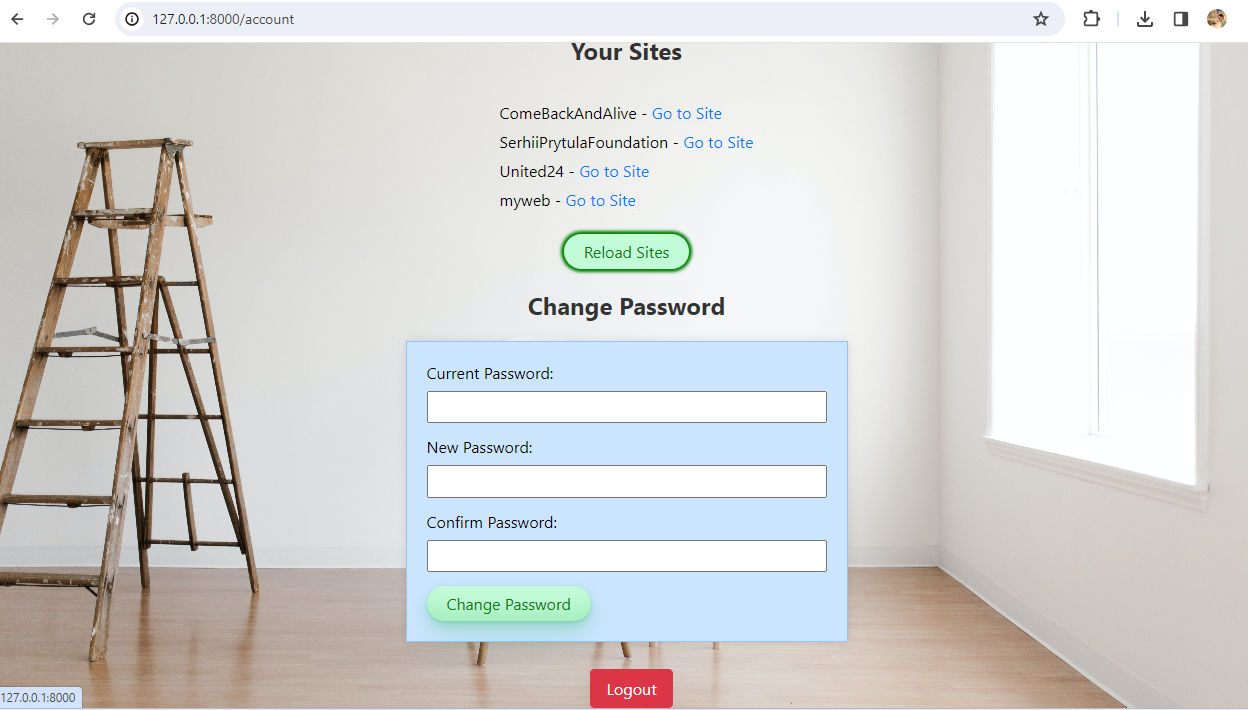
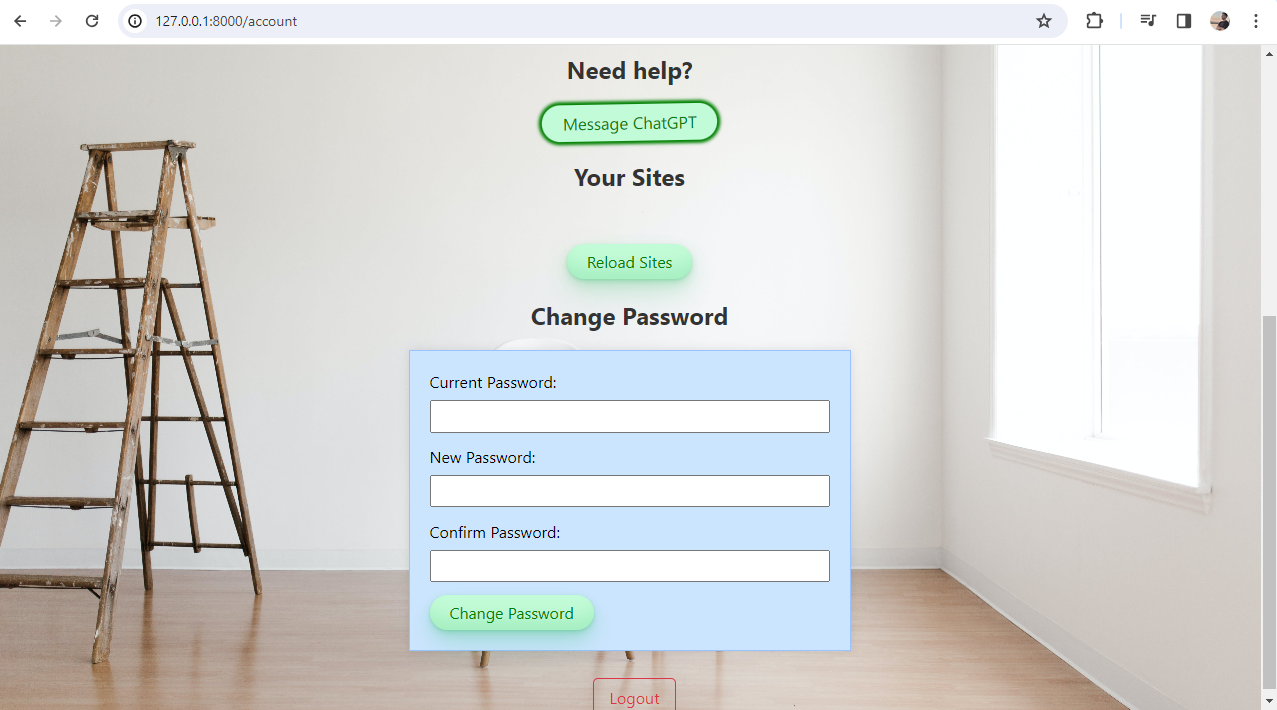
integrated ChatGPT chat, gpt.html

diff --git a/templates/gpt.html b/templates/gpt.html
@@ -1,0 +1,62 @@
+<!DOCTYPE html>
+<html lang="en">
+
+<head>
+  <meta charset="UTF-8">
+  <meta http-equiv="X-UA-Compatible" content="IE=edge">
+  <meta name="viewport" content="width=device-width, initial-scale=1.0">
+  <title>Message ChatGPT</title>
+  <link rel="stylesheet" href="{{ url_for('static', path='css/styles.css') }}">
+</head>
+
+<body class="centered">
+   <h1>Message ChatGPT</h1>
+   
+   <div id="chat-container">
+       <div id="chat-messages"></div>
+       <form id="chat-form">
+           <label for="user-message">Type a message:</label>
+           <input type="text" id="user-message" name="user-message" required>
+           <button type="button" onclick="sendMessage()">Send</button>
+       </form>
+   </div>
+   
+   <a href="{{ url_for('account_page') }}">Return to my account</a>
+
+   <script>
+       async function sendMessage() {
+           var userMessage = document.getElementById('user-message').value;
+           var chatMessages = document.getElementById('chat-messages');
+           try {
+               chatMessages.innerHTML += `<div class="user-message">${userMessage}</div>`;
+               const response = await fetch('/chatgpt', {
+                  method: 'POST',
+                  headers: {
+                      'Content-Type': 'application/x-www-form-urlencoded',
+                  },
+                  body: new URLSearchParams({
+                      'message': userMessage,
+                  }),
+               });
+               const responseData = await response.json();
+               console.log(responseData);
+               const generatedMessage = responseData.generated_message;
+   
+               chatMessages.innerHTML += `<div class="gpt-message">${generatedMessage}</div>`;
+
+               document.getElementById('user-message').value = '';
+           } catch (error) {
+               console.error('Error sending message:', error);
+           }
+       }
+       var input = document.getElementById("user-message");
+       input.addEventListener("keypress", function(event) {
+          if (event.key === "Enter") {
+              event.preventDefault();
+              sendMessage();   // Enter функціонуватиме як "Send"
+          }
+       });
+   </script>
+</body>
+
+</html>

diff --git a/templates/account.html b/templates/account.html
@@ -26,6 +26,9 @@
           <br>
           <button type="submit">Create Site</button>
        </form>
+   
+   <h2>Need help?</h2>  
+   <button id="go-to-chatgpt">Message ChatGPT</button>
 
    <h2>Your Sites</h2>
    <ul id="sites-list">
@@ -85,6 +88,9 @@
                });
            });
    });
+   document.getElementById('go-to-chatgpt').addEventListener('click', function() {
+        window.location.href = '/chatgpt';
+    });
    </script>
 </body>
 

diff --git a/static/css/styles.css b/static/css/styles.css
@@ -258,3 +258,21 @@ position: relative;
     text-align: center;
     margin-top: 20px;
 }
+  
+/* .user-message {
+    background-color: #f0f0f0; 
+    color: #333; 
+    float: right; 
+    padding: 10px;
+    margin-bottom: 10px; 
+    border-radius: 5px; 
+}
+ 
+.gpt-message {
+    background-color: #333; 
+    color: #f0f0f0; 
+    float: left; 
+    padding: 10px; 
+    margin-bottom: 10px; 
+    border-radius: 5px; 
+} */

diff --git a/main.py b/main.py
@@ -1,11 +1,13 @@
 import uvicorn
-from fastapi import FastAPI, Request, Form, HTTPException
+from fastapi import FastAPI, Request, Form, HTTPException, Depends
 from fastapi.staticfiles import StaticFiles
-from fastapi.responses import HTMLResponse, RedirectResponse 
+from fastapi.responses import HTMLResponse, RedirectResponse, JSONResponse
 from fastapi.templating import Jinja2Templates 
 from fastapi_sqlalchemy import DBSessionMiddleware, db
 from dotenv import load_dotenv
 from starlette.middleware.sessions import SessionMiddleware
+import openai
+from openai import OpenAI
 import os
 
 from models import Users
@@ -16,11 +18,13 @@ from models import Site as ModelSite
 
 from schema import Users as SchemaUsers
 from schema import Statistics as SchemaStatistics
- 
+
 load_dotenv(".env")
 
 app = FastAPI()
 templates = Jinja2Templates(directory="templates")
+
+client = OpenAI()
 
 app.mount("/static", StaticFiles(directory="static"), name="static")
 app.add_middleware(DBSessionMiddleware, db_url=os.environ["DATABASE_URL"])
@@ -30,10 +34,11 @@ app.add_middleware(SessionMiddleware, secret_key="bananabomb")
 async def home(request: Request):     # I can use only def in these snippets
     return templates.TemplateResponse("home.html", {"request": request})
 
+
 @app.get('/register', response_class=HTMLResponse)
 async def registr_page(request: Request):
     return templates.TemplateResponse("register.html", {"request": request})
-                                      
+                                     
 @app.post("/register", response_class=HTMLResponse)
 async def register(request: Request, 
                    username: str = Form(...), 
@@ -48,12 +53,13 @@ async def register(request: Request,
     print("Registration successful. Redirecting to login.")
     return RedirectResponse(url="/login", status_code=303)
 
+
 @app.get('/login', response_class=HTMLResponse)
 async def login_page(request: Request):
     return templates.TemplateResponse("login.html", {"request": request})
 
 @app.post("/login", response_class=HTMLResponse)
-async def login(request: Request, 
+async def login(request: Request,   
               username: str = Form(...), 
               password: str = Form(...)):
   existing_user = db.session.query(Users).filter(Users.username == username, Users.password == password).first()
@@ -64,6 +70,7 @@ async def login(request: Request,
   else: 
       return templates.TemplateResponse("login.html", {"request": request, "error": "Invalid username or password"})
    
+
 @app.get('/account', response_class=HTMLResponse)
 async def account_page(request: Request):
   user = request.session.get("user")
@@ -71,7 +78,7 @@ async def account_page(request: Request):
       return templates.TemplateResponse("account.html", {"request": request, "user": user, "error": None})
   else:
       return templates.TemplateResponse("account.html", {"request": request, "user": None, "error": "You are not logged in"})
-  
+
 @app.post('/account', response_class=HTMLResponse)
 async def change_pass(request: Request, 
         current_password: str = Form(...), 
@@ -90,6 +97,69 @@ async def change_pass(request: Request,
     db.session.commit() 
     request.session["error"] = "Password changed successfully"
     return templates.TemplateResponse("account.html", {"request": request, "user": user, "error": request.session.get('error')})
+
+
+def get_openai_api_key():
+    return os.environ.get("OPENAI_API_KEY", "not-set-api-key")
+
+class OpenAIDependency:
+   def __init__(self, api_key: str = Depends(get_openai_api_key)):
+      self.client = openai.OpenAI(api_key=api_key)
+
+@app.get('/chatgpt', response_class=HTMLResponse)
+async def gpt_page(request: Request):
+   return templates.TemplateResponse("gpt.html", {"request": request})
+
+@app.post('/chatgpt', response_class=JSONResponse)
+async def chat_with_gpt(
+    request: Request,
+    message: str = Form(...),
+    openai_dependency: OpenAIDependency = Depends()
+):
+    print(f"Received message: {message}")
+    if not message:
+        raise HTTPException(status_code=400, detail="Message cannot be empty")
+    try:
+        stream = openai_dependency.client.chat.completions.create(
+            model="gpt-3.5-turbo",
+            messages=[{"role": "user", "content": message}],
+            stream=True,
+            max_tokens=10  # Ліміт
+        )
+        generated_message = ""
+        async for chunk in stream:
+           if chunk.choices[0].delta.content is not None:
+              generated_message += chunk.choices[0].delta.content
+        print(f"Generated message: {generated_message}")
+    except Exception as e:
+        print(f"Error generating response: {str(e)}")
+        raise HTTPException(status_code=500, detail=f"Error generating response: {str(e)}")
+    return {"generated_message": generated_message}
+
+''' Previous snippet yields a response in parallel to ChatGPT`s generation 
+    Below snippet yields a response only when it is fully generated by it '''
+# @app.post('/chatgpt', response_class=JSONResponse)
+# async def chat_with_gpt(
+#     request: Request,
+#     message: str = Form(...),
+#     openai_dependency: OpenAIDependency = Depends()
+# ):
+#     print(f"Received message: {message}")
+#     if not message:
+#         raise HTTPException(status_code=400, detail="Message cannot be empty")
+#     try:
+#         chat_completion = openai_dependency.client.chat.completions.create(
+#             model="gpt-3.5-turbo",
+#             messages=[{"role": "user", "content": message}],
+#             max_tokens=10 # Ліміт
+#         )
+#         generated_message = chat_completion.choices[0].message['content']
+#         print(f"Generated message: {generated_message}")
+#     except Exception as e:
+#         print(f"Error generating response: {str(e)}")
+#         raise HTTPException(status_code=500, detail=f"Error generating response: {str(e)}")
+#     return {"generated_message": generated_message}
+
 
 @app.post("/create_site")
 async def create_site(request: Request, site_name: str = Form(...), site_url: str = Form(...)):
@@ -122,10 +192,10 @@ async def go_to_site(request: Request, site_id: int):
    else:
        return RedirectResponse("/account")
 
-''' Below snippet yields => http://127.0.0.1:8000/ComeBackAndAlive/, but when 
-I move in the external site - e.g clicking a Materials department of a w/s 
-(http://127.0.0.1:8000/ComeBackAndAlive/materials), it returns URL 
- http://127.0.0.1:8000/materials/ instead, with {"error":"Site not found"} '''
+''' Above snippet redirects to external original site that you had created.
+    Below one yields a proxy http://127.0.0.1:8000/ComeBackAndAlive/ w/s, but when 
+    moving there - instead of e.g. http://127.0.0.1:8000/ComeBackAndAlive/materials, 
+    it returns {"error":"Site not found"}, http://127.0.0.1:8000/materials/ '''
 
 # import requests 
 # @app.get("/go-to-site/{site_id}")
@@ -153,7 +223,7 @@ I move in the external site - e.g clicking a Materials department of a w/s
 #        return {"error": "Site not found"}
 
 
-# These snippets are for Swagger UI http://127.0.0.1:8000/docs#/
+''' Next snippets are for Swagger UI http://127.0.0.1:8000/docs#/ '''
 @app.post("/add-user/", response_model=SchemaUsers)
 def add_user(user: SchemaUsers):
     db_user = ModelUsers(username=user.username, password=user.password, email=user.email)
